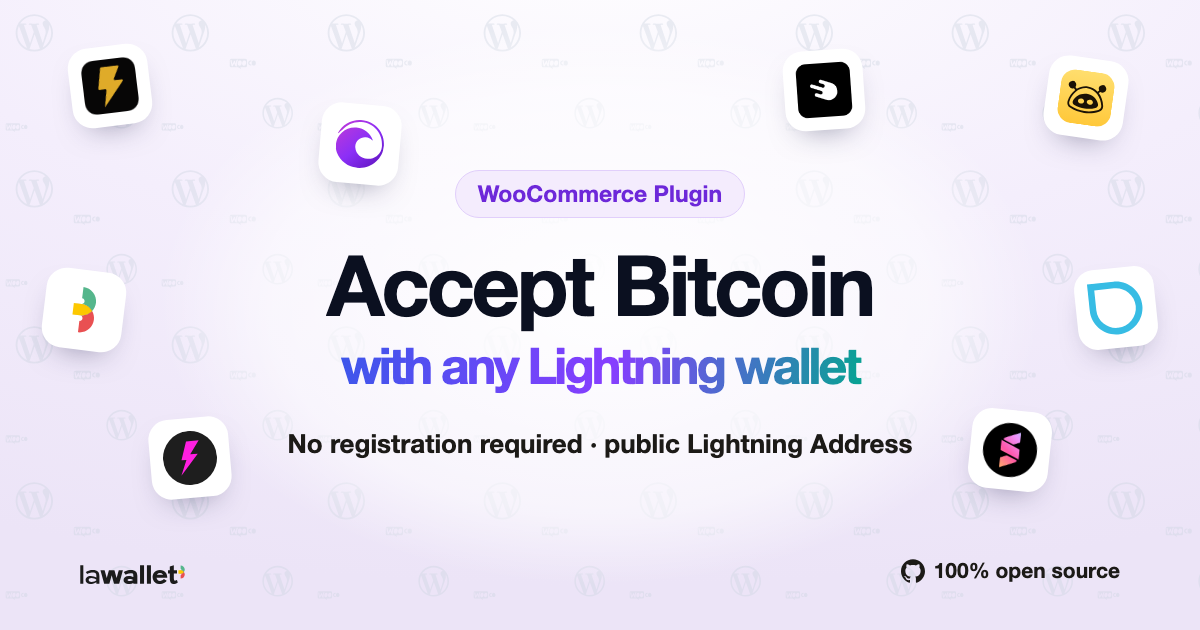
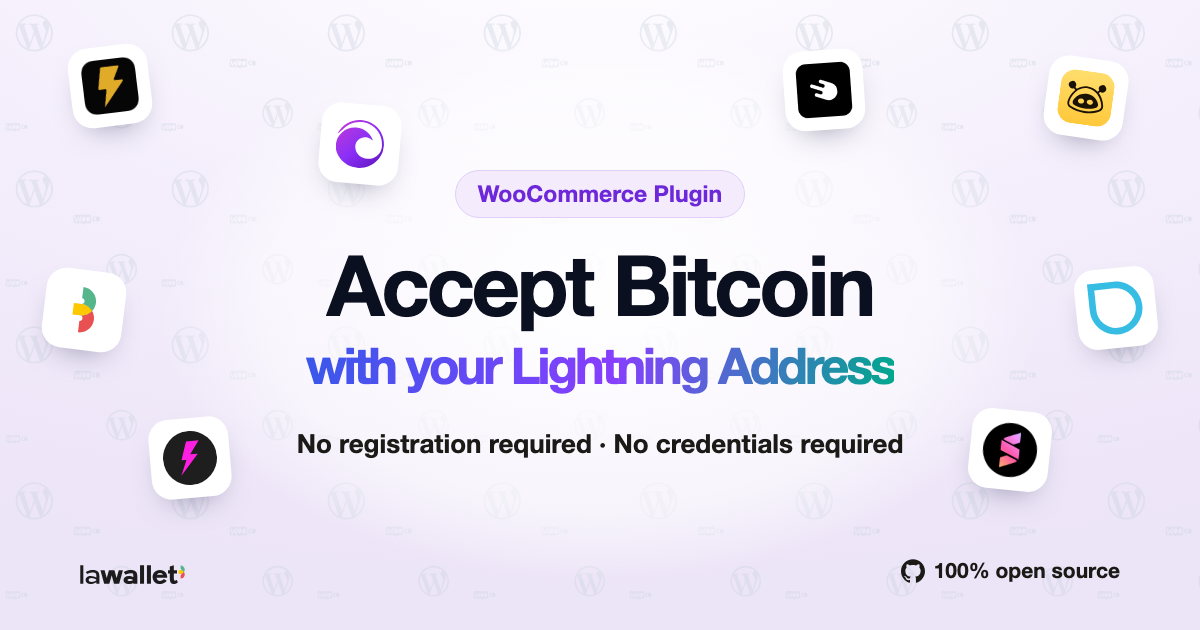
Social card E: update headline + subline copy

Changed region(s): [[0.2467, 0.5429, 0.7708, 0.6333], [0.2158, 0.6937, 0.7708, 0.7238]]

diff --git a/landing/og-e.html b/landing/og-e.html
@@ -37,8 +37,8 @@
 
   <div class="wrap">
     <span class="pill">WooCommerce Plugin</span>
-    <h1>Accept Bitcoin<span class="grad">with any Lightning wallet</span></h1>
-    <div class="sub">No registration required &middot; public Lightning Address</div>
+    <h1>Accept Bitcoin<span class="grad">with your Lightning Address</span></h1>
+    <div class="sub">No registration required &middot; No credentials required</div>
   </div>
 
   <img class="brand" src="assets/lawallet-logo.svg" alt="LaWallet" />
